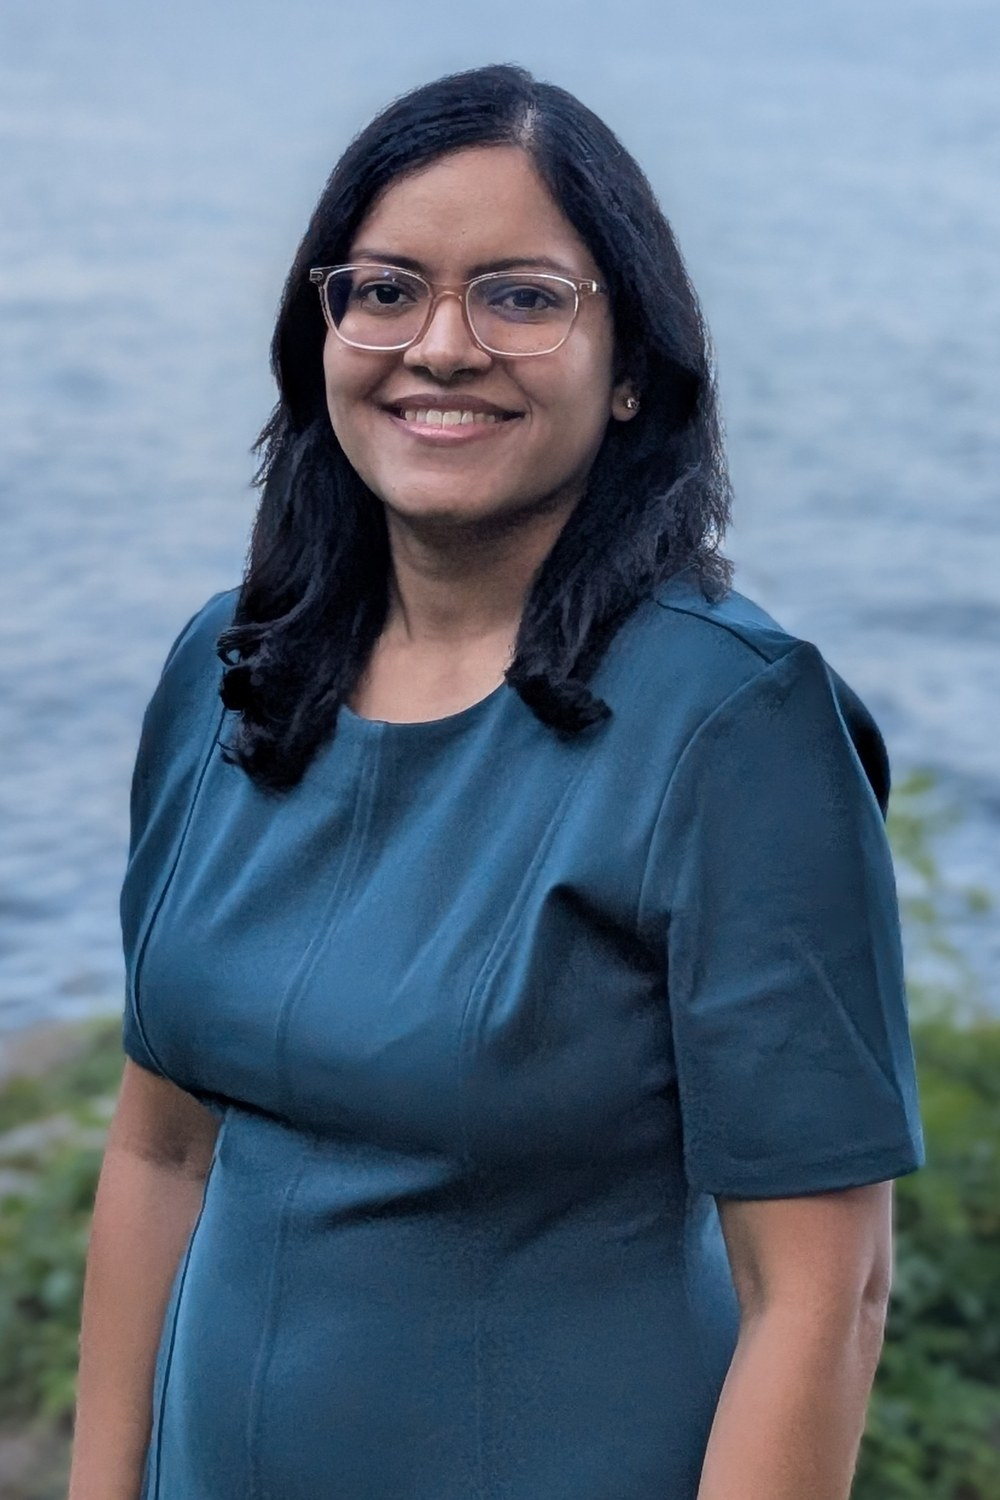
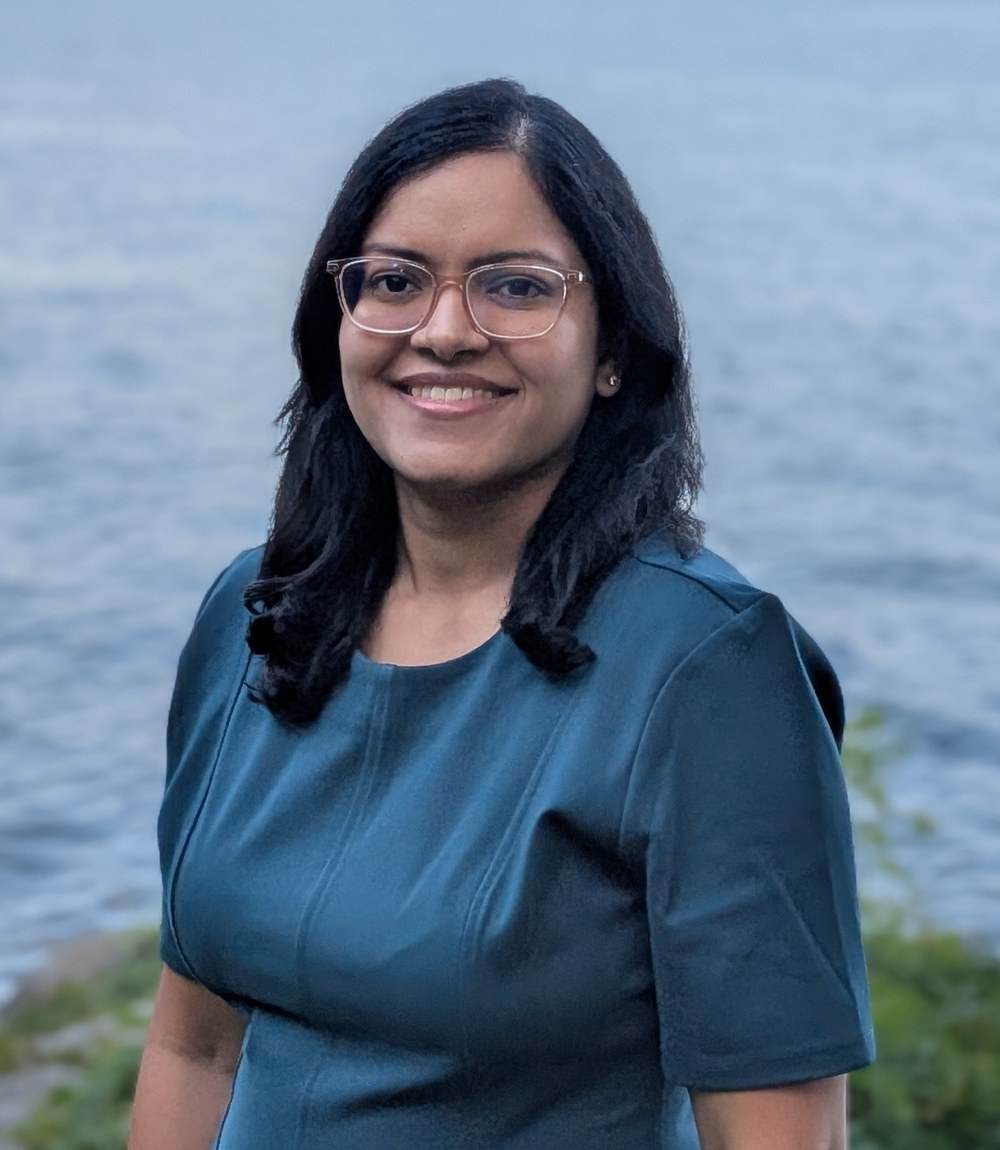
Add files via upload

diff --git a/index.html b/index.html
@@ -627,31 +627,31 @@ body.menu-open{
 .hero-secondary-row .btn{padding:13px 20px;font-size:0.86rem;text-align:center;white-space:nowrap;}
 
 /* Advance praise tiles */
-.advance-section{background:#f0f3f8;padding:80px var(--pad);text-align:center;}
+.advance-section{background:#f0f3f8;padding:64px var(--pad);text-align:center;}
 .advance-grid{display:grid;grid-template-columns:repeat(2,1fr);gap:1.25rem;max-width:1100px;margin:2.5rem auto 0;text-align:left;}
 .advance-card{background:#ffffff;border-radius:10px;padding:1.7rem 1rem 1.4rem;display:flex;flex-direction:column;box-shadow:0 8px 24px rgba(26,46,69,0.08);border-bottom:4px solid #ffff00;transition:transform .25s ease,box-shadow .25s ease;}
 .advance-card:hover{transform:translateY(-6px);box-shadow:0 18px 40px rgba(26,46,69,0.15);}
-.praise-carousel{display:flex;align-items:center;justify-content:center;gap:1.5rem;max-width:780px;margin:1rem auto 0;}
+.praise-carousel{display:flex;align-items:center;justify-content:center;gap:1.5rem;max-width:780px;margin:0 auto;}
 .praise-slides{position:relative;flex:1;}
-.praise-slide{display:none;text-align:center;max-width:640px;margin:0 auto;padding:0 0.5rem;box-sizing:border-box;min-height:19rem;}
+.praise-slide{display:none;text-align:center;max-width:640px;margin:0 auto;padding:0 0.5rem;box-sizing:border-box;min-height:13rem;}
 .praise-slide.active{display:flex;flex-direction:column;align-items:center;}
 .praise-slide .advance-quote-mark{font-size:5.2rem;margin-bottom:0.6rem;flex-shrink:0;}
-.praise-quote-wrap{flex:1;display:flex;align-items:flex-end;justify-content:center;width:100%;min-height:0;}
-.praise-slide .advance-quote{text-align:center;font-size:clamp(1.2rem,2.5vw,1.6rem);margin:0 0 5rem;}
+.praise-quote-wrap{flex:1;display:flex;align-items:center;justify-content:center;width:100%;min-height:0;}
+.praise-slide .advance-quote{text-align:center;font-size:clamp(1.2rem,2.5vw,1.6rem);margin:0 0 3.3rem;}
 .praise-slide .advance-person{flex-direction:column;justify-content:center;gap:0.3rem;flex-shrink:0;margin-top:0;}
 .praise-slide .advance-name{text-transform:uppercase;letter-spacing:0.06em;}
 .praise-arrow{background:none;border:none;cursor:pointer;font-size:2.4rem;color:#1a2e45;opacity:0.45;transition:opacity 0.2s;padding:0 0.4rem;line-height:1;font-family:'Libre Baskerville',Georgia,serif;flex-shrink:0;}
 .praise-arrow:hover{opacity:1;}
-.praise-dots{display:flex;justify-content:center;gap:8px;margin-top:1.6rem;}
+.praise-dots{display:flex;justify-content:center;gap:8px;margin-top:1.2rem;}
 .praise-dot{width:8px;height:8px;border-radius:50%;background:rgba(26,46,69,0.22);border:none;padding:0;cursor:pointer;transition:background 0.2s;}
 .praise-dot.active{background:#1a2e45;}
-@media(max-width:700px){.praise-carousel{gap:0.4rem;align-items:flex-start;}.praise-arrow{font-size:1.8rem;margin-top:3.8rem;}.praise-slide{padding:0 0.2rem;min-height:24rem;}.praise-slide .advance-quote{font-size:1.1rem;margin:0 0 4.2rem;}}
+@media(max-width:700px){.praise-carousel{gap:0.4rem;align-items:flex-start;}.praise-arrow{font-size:1.8rem;margin-top:3.5rem;}.praise-slide{padding:0 0.2rem;min-height:23rem;}.praise-slide .advance-quote{font-size:1.1rem;margin:0 0 4.2rem;}}
 .advance-quote-mark{font-family:'Libre Baskerville',Georgia,serif;font-size:3.4rem;line-height:0.4;color:#c9a600;opacity:1;margin-bottom:0.9rem;display:block;}
 .advance-quote{font-family:'Libre Baskerville',Georgia,serif;font-size:1rem;font-style:italic;color:var(--text-dark);line-height:1.65;margin-bottom:1.5rem;flex:1;}
 .advance-person{display:flex;align-items:center;gap:0.8rem;}
 
-.advance-name{font-family:'Source Sans 3',sans-serif;font-size:0.85rem;font-weight:700;color:var(--text-dark);}
-.advance-credit{font-family:'Source Sans 3',sans-serif;font-size:0.74rem;color:var(--text-mid);}
+.advance-name{font-family:'Source Sans 3',sans-serif;font-size:0.98rem;font-weight:700;color:var(--text-dark);}
+.advance-credit{font-family:'Source Sans 3',sans-serif;font-size:0.85rem;color:var(--text-mid);}
 @media(max-width:700px){.advance-grid{grid-template-columns:1fr;max-width:480px;}}
 
 /* Modal */

diff --git a/book.html b/book.html
@@ -488,8 +488,8 @@ body.menu-open{
 .advance-quote{font-family:'Libre Baskerville',Georgia,serif;font-size:1rem;font-style:italic;color:var(--text-dark);line-height:1.65;margin-bottom:1.5rem;flex:1;}
 .advance-person{display:flex;align-items:center;gap:0.8rem;}
 
-.advance-name{font-family:'Source Sans 3',sans-serif;font-size:0.85rem;font-weight:700;color:var(--text-dark);}
-.advance-credit{font-family:'Source Sans 3',sans-serif;font-size:0.74rem;color:var(--text-mid);}
+.advance-name{font-family:'Source Sans 3',sans-serif;font-size:0.98rem;font-weight:700;color:var(--text-dark);}
+.advance-credit{font-family:'Source Sans 3',sans-serif;font-size:0.85rem;color:var(--text-mid);}
 @media(max-width:700px){.advance-grid{grid-template-columns:1fr;max-width:480px;}}
 
 /* Modal */
